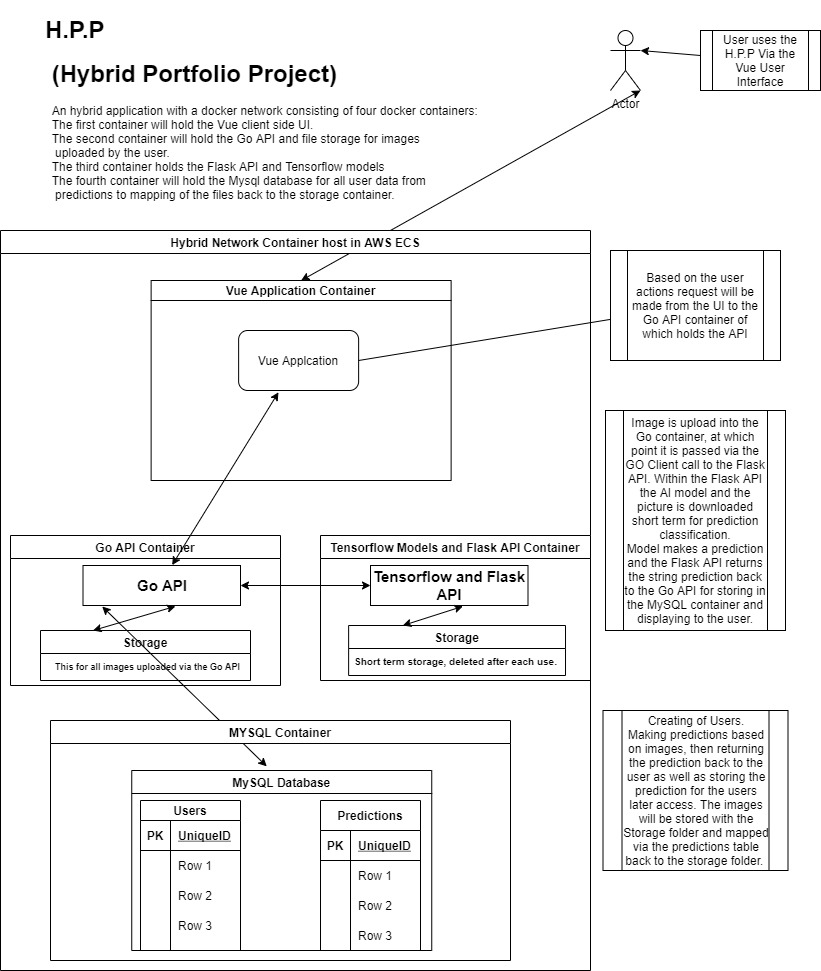
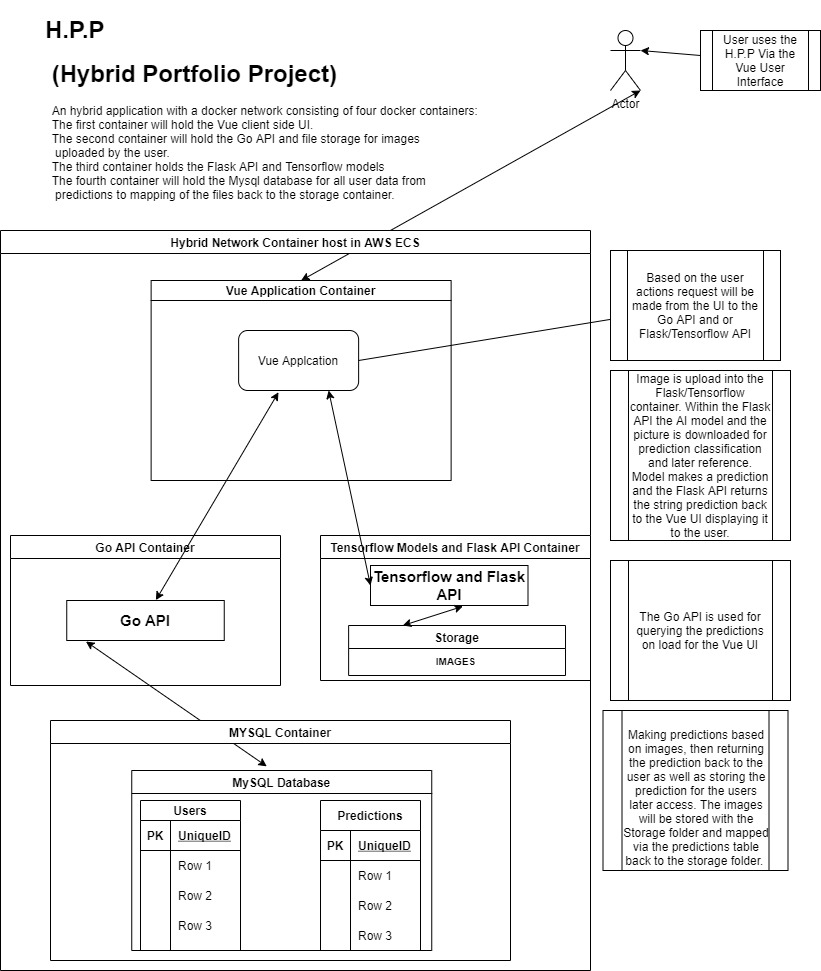
Updates

diff --git a/docker-vuejs/src/components/HelloWorld.vue b/docker-vuejs/src/components/HelloWorld.vue
@@ -2,20 +2,20 @@
     <div class="hello">
         <h1>{{ msg }}</h1>
         <a href="https://github.com/Frezknow/Hybrid_Showcase">Hybrid Project's GitHub Repo</a>
-        <p style="text-align:center; position:relative;;  font-size:16pt; width:90%; height:auto; float:center; margin-bottom:100px; left:5%;">
+        <div style="position:absolute; width:70%; top:300px; height:50%; overflow-y:scroll; right:5%;">
+            <h2>Upload image and get live predictions on your photo</h2>
+            <input type="file" id="file" ref="myFiles" @change="previewFiles" /><button @click="predict()">Predict</button>
+            <h2>Below you will find the previously submitted prediction request and results</h2><hr />
+            <div v-bind:key="i" v-for="(p,i) in predictions">Prediction #{{p.id}} made by model({{p.id}}): {{p.prediction}} <br /><img style="width:150px; height:100px;" :src="'http://127.0.0.1:5052/static/'+p.Img" /></div>
+        </div>
+        <p style="text-align:center; position:relative; font-size:16pt; width:50%;left:10px; height:auto; float:center; margin-bottom:100px;">
+            <img style="width:700px; height:800px;  position:relative;" alt="Hybrid project's diagram" src="../assets/0002.jpg">
             The H.P.P as you can see above in the diagram, is a Hybrid dockerized microservice project that is hosted in AWS (ECS).
             It contains Vue, HTML, CSS, Shell, GoLang, Python + Tensorflow,and  Mysql.
             This project gives the user the ability to predict images by using Python Tensorflow CNN models,
             I have built a few CNN models for the user to choose from.
             We also display previous submitted images and the predictions the AI models returned.
         </p>
-        <br/><br/>
-        <div style="position:relative; width:90%; height:50%; overflow-y:scroll; left:5%;">
-            <h2>Upload image and get live predictions on your photo</h2>
-            <input type="file" id="file" ref="myFiles" @change="previewFiles" /><button @click="predict()">Predict</button>
-            <h2>Below you will find the previously submitted prediction request and results</h2><hr />
-            <div v-bind:key="i" v-for="(p,i) in predictions">Prediction #{{p.id}} made by model({{p.id}}): {{p.prediction}} <br /><img style="width:150px; height:100px;" :src="'http://127.0.0.1:82/'+p.Img" /></div>
-        </div>
     </div>
 </template>
 
@@ -62,19 +62,16 @@
                         // this.editBusiness.errors.push("Image is to large, must be less than 10 MBs.")
                     }
                 }
-                //axios.defaults.headers.post['Content-Type'] = 'application/json;charset=utf-8';
-                //axios.defaults.headers.post['Access-Control-Allow-Origin'] = '*';
                 axios.defaults.headers.common['Access-Control-Allow-Origin'] = '*';
-                axios.post("http://0eea-40-136-248-23.ngrok.io/predict", formData, {
+                axios.post("http://127.0.0.1:5052/predict", formData, {
                     headers: {
                         'Content-Type': 'multipart/form-data'
                     }
                    })
                     .then(r => {
                         console.log(r.data)
-                        vm.go = true
-                        vm.aiPre = r.data
-                        this.goStore()
+                        vm.predictions.unshift(r.data)
+                        //this.goStore()
                     })
                     .catch(f => {
                         console.log(f)      
@@ -82,7 +79,6 @@
             },
             goStore() {
                 var vm = this
-                alert(this.aiPre)
                 let formData = new FormData();
                 var imgs = this.files;
                 console.log(imgs)
@@ -93,12 +89,14 @@
                         // this.editBusiness.errors.push("Image is to large, must be less than 10 MBs.")
                     }
                 }
-                formData.append('prediction', this.aiPre);
+                formData.append('prediction', vm.aiPre)
+                axios.defaults.headers.common['Access-Control-Allow-Origin'] = '*';
                 axios.post("http://127.0.0.1:82/predict", formData, {
                     headers: {
-                        'Content-Type': 'multipart/form-data'
+                        'Content-Type': 'multipart/form-data',
+                        //"Access-Control-Allow-Origin":'*'
                     }
-                })
+                   })
                     .then(r => {
                         console.log(r.data)
                         vm.predictions.push(r.data)
@@ -106,6 +104,7 @@
                     .catch(f => {
                         console.log(f)
                     });
+
             }
         }
 

diff --git a/docker-vuejs/public/index.html b/docker-vuejs/public/index.html
@@ -1,11 +1,13 @@
-<!DOCTYPE html>
+<!DOCTYPE html>
 <html lang="">
   <head>
     <meta charset="utf-8">
     <meta http-equiv="X-UA-Compatible" content="IE=edge">
     <meta name="viewport" content="width=device-width,initial-scale=1.0">
     <link rel="icon" href="<%= BASE_URL %>favicon.ico">
-    <title><%= htmlWebpackPlugin.options.title %></title>
+    <title>
+      Hybrid Project
+    </title>
   </head>
   <body>
     <noscript>

diff --git a/docker-vuejs/src/App.vue b/docker-vuejs/src/App.vue
@@ -1,5 +1,4 @@
 <template>
-  <img style="width:700px; height:800px;" alt="Hybrid project's diagram" src="./assets/0002.jpg">
   <HelloWorld msg="Welcome to my hybrid portfolio project - Nathan Reynolds"/>
 </template>
 

diff --git a/docker-vuejs/vue.config.js b/docker-vuejs/vue.config.js
@@ -1,1 +1,1 @@
-module.exports = { devServer: { proxy: 'http://127.0.0.1:8081' } };
+module.exports = { devServer: { proxy: 'http://127.0.0.1:82' } };

diff --git a/AI/app.py b/AI/app.py
@@ -8,7 +8,10 @@ from flask import Flask, render_template, url_for, request, redirect, jsonify, m
 from flask_ngrok import run_with_ngrok
 from flask_bootstrap import Bootstrap
 from flask_cors import CORS, cross_origin
+from flaskext.mysql import MySQL
 import os
+import time
+import json
 #from google.colab import drive
 from tensorflow.keras.models import load_model
 #drive.mount('/content/gdrive')
@@ -16,24 +19,30 @@ PEOPLE_FOLDER = os.path.join('static','people_photo')
 
 app = Flask(__name__, template_folder='/content/static')
 cors = CORS(app)
+mysql = MySQL()
+app.config['MYSQL_DATABASE_USER'] = 'root'
+app.config['MYSQL_DATABASE_PASSWORD'] = 'test'
+app.config['MYSQL_DATABASE_DB'] = 'dev'
+app.config['MYSQL_DATABASE_HOST'] = 'mysql'
+mysql.init_app(app)
 app.config['UPLOAD_FOLDER'] = PEOPLE_FOLDER
 app.config['CORS_HEADERS'] = 'Content-Type'
-run_with_ngrok(app)
+#run_with_ngrok(app)
 dir = "10_food_classes_10_percent"
 
 train_dir = dir+"/train"
 test_dir = dir+"/test"
 import tensorflow as tf
 
+
 IMG_SIZE = (224, 224)
 BATCH_SIZE = 32
 train_data_10_percent = tf.keras.preprocessing.image_dataset_from_directory(directory=train_dir, 
-                                                                            image_size=IMG_SIZE,
-                                                                            label_mode="categorical",
+                                                                            image_size=IMG_SIZE,                                                                           label_mode="categorical",
                                                                             batch_size=BATCH_SIZE)
 transfer_model = load_model("./transferModel1", compile = True)
 #transfer_model.load_weights('my_model_weights.h5')
-#Bootstrap(app)
+Bootstrap(app)
 """
 Routes
 """
@@ -43,26 +52,36 @@ Routes
 def home():
   #full_filename = os.path.join(app.config['UPLOAD_FOLDER'], 'Shovon.jpg')
   #return render_template('Webp.html',user_image =ful)
+  #connection = create_connection("127.0.0.1","root","test")
   _build_cors_preflight_response()
   prediction = "HII"
-  if request.method == 'POST':
+  if request.method == 'POST'  or request.method == 'OPTIONS':
     uploaded_file = request.files['img']
     if uploaded_file.filename != '':
-      image_path = os.path.join('static')
-      uploaded_file.save(uploaded_file.filename)
+      ms = round(time.time() * 1000)
+      image_path = os.path.join('static',ms)
+      uploaded_file.save(image_path)
       # Predict with pre saved model here
       from keras.preprocessing import image
       import numpy as np
       img_width, img_height = 224, 224
-      img = image.load_img(uploaded_file.filename, target_size = (img_width, img_height))
+      img = image.load_img(image_path, target_size = (img_width, img_height))
       img = image.img_to_array(img)
       img = np.expand_dims(img, axis = 0)
       pre = transfer_model.predict(img)
       prediction = np.argmax(pre, axis = 1)
       prediction = train_data_10_percent.class_names[prediction[0]]
-      
-   # return response 
-  return prediction
+      try:
+       conn = mysql.connect()
+       cursor = conn.cursor()
+       cursor.execute("INSERT INTO predictions(prediction,img) VALUES (%s, %s)",(prediction,uploaded_file.filename)) 
+       conn.commit()
+       return json.dumps({"prediction":prediction,"Img":uploaded_file.filename})
+      except Exception as e:
+       print(e)
+       return
+  # return response 
+  return 
 def _build_cors_preflight_response():
   response = make_response()
   response.headers.add("Access-Control-Allow-Origin","*")
@@ -70,4 +89,4 @@ def _build_cors_preflight_response():
   response.headers.add("Access-Control-Allow-Methods","*")
   return response
 if __name__ == '__main__':
-  app.run()
+  app.run(host='0.0.0.0', port=5052)

diff --git a/GoAPI/main.go b/GoAPI/main.go
@@ -6,6 +6,7 @@ import (
 	"fmt"
 	_ "github.com/go-sql-driver/mysql"
 	"github.com/gorilla/mux"
+	"github.com/gorilla/handlers"
 	"io"
 	"log"
 	"net/http"
@@ -24,13 +25,21 @@ type Prediction struct {
 	Prediction string `json:"prediction"`
 	Img        string `json: "img"`
 }
-
-func handleRequests() {
+func newREST() *mux.Router {
 	apiRouter := mux.NewRouter().StrictSlash(true)
 	apiRouter.HandleFunc("/all", all).Methods("GET", "OPTIONS")
-	apiRouter.HandleFunc("/predict", predict).Methods("POST", "OPTIONS")
+	apiRouter.HandleFunc("/predict", predict).Methods("GET","POST","OPTIONS")
+	apiRouter.HandleFunc("/testPost",testPost).Methods("POST","OPTIONS")
 	apiRouter.PathPrefix("/").Handler(http.FileServer(http.Dir("./uploads/")))
-	log.Fatal(http.ListenAndServe(":82", apiRouter))
+	return apiRouter
+}
+
+func handleRequests() {
+    apiRouter := newREST()
+	credentials := handlers.AllowCredentials()
+    methods := handlers.AllowedMethods([]string{"POST"})
+    origins := handlers.AllowedOrigins([]string{"127.0.0.1:8080"})
+	log.Fatal(http.ListenAndServe(":82", handlers.CORS(credentials, methods, origins)(apiRouter)))
 }
 
 func main() {
@@ -41,12 +50,12 @@ func main() {
 func all(w http.ResponseWriter, r *http.Request) {
 	//Allow CORS here By * or specific origin
 	w.Header().Set("Access-Control-Allow-Origin", "*")
-	db, err := sql.Open("mysql", "root:test@tcp(172.19.0.3)/dev")
+	db, err := sql.Open("mysql", "root:test@tcp(mysql)/dev")
 	if err != nil {
 		panic(err)
 	}
 	defer db.Close()
-	rows, err := db.Query("SELECT id,prediction,img FROM predictions")
+	rows, err := db.Query("SELECT id,prediction,img FROM predictions ORDER BY ID DESC")
 	if err != nil {
 		fmt.Println(err)
 		w.WriteHeader(http.StatusInternalServerError)
@@ -67,10 +76,13 @@ func all(w http.ResponseWriter, r *http.Request) {
 
 	json.NewEncoder(w).Encode(predictions)
 }
+// delete todo is for deleting prediction from the database, being that the file is stored else where this may need to be done on the flask container
+func delete(w http.ResponseWriter, r *http.Request){
+	return
+}
+// predict is an old function for storing the prediction and file, however this is no longer needed for the application
 func predict(w http.ResponseWriter, r *http.Request) {
-	//Allow CORS here By * or specific origin
-	w.Header().Set("Access-Control-Allow-Origin", "*")
-
+   // w.Header().Set("Access-Control-Allow-Headers", "X-CSRF-Token, X-Requested-With, Accept, Accept-Version, Content-Length, Content-MD5, Content-Type, Date, X-Api-Version")
 	r.Body = http.MaxBytesReader(w, r.Body, MAX_UPLOAD_SIZE)
 	if err := r.ParseMultipartForm(MAX_UPLOAD_SIZE); err != nil {
 		http.Error(w, "The uploaded file is too big. Please choose an file that's less than 10MB in size", http.StatusBadRequest)
@@ -107,7 +119,7 @@ func predict(w http.ResponseWriter, r *http.Request) {
 		return
 	}
 	//Begin SQL Connection
-	db, err := sql.Open("mysql", "root:test@tcp(172.19.0.3)/dev")
+	db, err := sql.Open("mysql", "root:test@tcp(mysql)/dev")
 
 	if err != nil {
 		panic(err)
